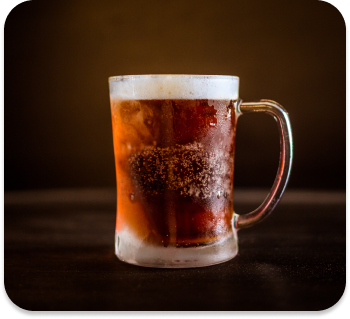
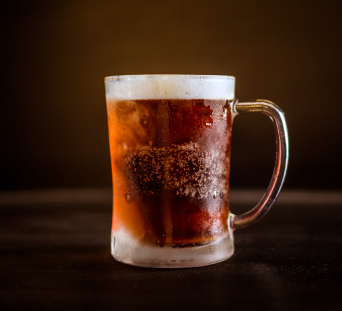
Images changed on why Hungary page, deleted images that are not used

Changed region(s): [[0.0, 0.0, 1.0, 1.0], [0.1462, 0.5788, 0.2924, 0.6077], [0.731, 0.8103, 0.7895, 0.8682]]

diff --git a/why-hungary.html b/why-hungary.html
@@ -72,7 +72,7 @@
                 <p>
             </div>
             <div class="hero-section-right hero-hun-img">
-                <img src="assets/images/parliament.png"
+                <img src="assets/images/parliament.jpg"
                     alt="Lehoczky Dental Happy Dent Dental tourism Hungary hero image">
             </div>
         </div>
@@ -157,7 +157,7 @@
                 average cost of popular items. </p>
             <div class="cost-section-grid">
                 <div>
-                    <img src="assets/images/coffee.png" alt="">
+                    <img src="assets/images/coffee.png" alt="A cup of coffee">
                     <h5>A cup of coffee</h5>
                     <p>DKK 10 - DKK 45</p>
                 </div>

diff --git a/styles/style.css b/styles/style.css
@@ -792,6 +792,10 @@ p {
   color: #003F91;
 }
 
+.text-highlight-var {
+  color: #5DA9E9;
+}
+
 .about-us-section {
   width: 80vw;
   min-height: 80vh;
@@ -1270,6 +1274,13 @@ footer .footer-grid > div > p {
   display: grid;
   grid-template-columns: 1fr 1fr 1fr 1fr;
   gap: 2rem;
+}
+.cost-section-grid > div > img {
+  border-radius: 20px;
+  -webkit-border-radius: 20px;
+  -moz-border-radius: 20px;
+  -ms-border-radius: 20px;
+  -o-border-radius: 20px;
 }
 .cost-section-grid > div > h5,
 .cost-section-grid p {

diff --git a/index.html b/index.html
@@ -292,7 +292,7 @@
     <div class="consultation-section">
       <div>
         <h2>
-          Our consultation <span class="text-highlight">meetings are free</span> of charge and without any commitment
+          Our consultation <span class="text-highlight-var">meetings are free</span> of charge and without any commitment
         </h2>
         <p class="intro-text">
           We only need a panoramic X-ray from you to create a specialised treatment plan

diff --git a/about-us.html b/about-us.html
@@ -260,7 +260,7 @@
                 <button class="primary-btn"><a href="contact.html">Book a meeting</a></button>
             </div>
             <div>
-                <img src="assets/images/happy-client.png"
+                <img src="assets/images/happy-client.jpg"
                     alt="happy client beautiful smile consultation meeting Lehoczky dental tourism clinic">
             </div>
         </div>

diff --git a/assets/styles/style.scss b/assets/styles/style.scss
@@ -905,6 +905,10 @@ p {
    color: $dark-blue
 }
 
+.text-highlight-var {
+   color: $medium-blue
+}
+
 
 .about-us-section {
    @include w-h-m;
@@ -1408,6 +1412,10 @@ footer {
       display: grid;
       grid-template-columns: 1fr 1fr 1fr 1fr;
       gap: 2rem;
+
+      &>div>img{
+        @include borderrad; 
+      }
 
       &>div>h5,
       p {
